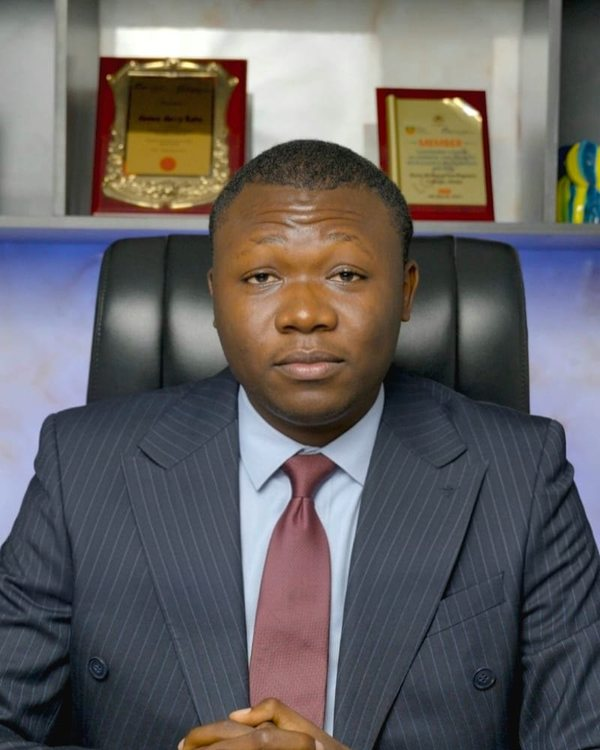
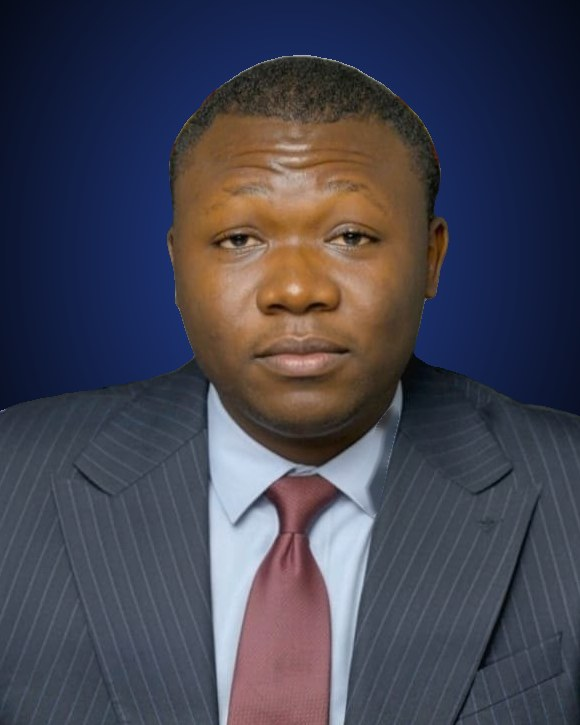
Use background-removed close crop of Jothan's portrait
Claude-Session: https://claude.ai/code/session_0141mu4T2ZpkdMG6nuheaKgU

diff --git a/index.html b/index.html
@@ -160,7 +160,7 @@
     <h2 class="reveal">The people behind the platform.</h2>
     <div class="team">
       <figure class="person reveal"><div class="ph"><img src="/img/james-kato.jpg" alt="James Jerry Kato" width="600" height="750" loading="lazy" /></div><figcaption><b>James Jerry Kato</b><span>Chairman of the Board</span></figcaption></figure>
-      <figure class="person reveal"><div class="ph"><img src="/img/jothan-kato.jpg" alt="Jothan Jerry Kato" width="600" height="750" loading="lazy" /></div><figcaption><b>Jothan Jerry Kato</b><span>General Managing Director</span></figcaption></figure>
+      <figure class="person reveal"><div class="ph"><img src="/img/jothan-kato.jpg" alt="Jothan Jerry Kato" width="580" height="725" loading="lazy" /></div><figcaption><b>Jothan Jerry Kato</b><span>General Managing Director</span></figcaption></figure>
       <figure class="person reveal"><div class="ph mono" aria-hidden="true"><span>DS</span></div><figcaption><b>Daniel Osigbodi Solomon</b><span>Executive Director</span></figcaption></figure>
       <figure class="person reveal"><div class="ph"><img src="/img/aaron-daniel.jpg" alt="Adamilo Aaron Daniel" width="600" height="750" loading="lazy" /></div><figcaption><b>Adamilo Aaron Daniel</b><span>Chief Operating Officer</span></figcaption></figure>
       <figure class="person reveal"><div class="ph"><img src="/img/anointed-ekabua.jpg" alt="Anointed Rademene Ekabua" width="600" height="750" loading="lazy" /></div><figcaption><b>Anointed Rademene Ekabua</b><span>Chief Technology Officer</span></figcaption></figure>
